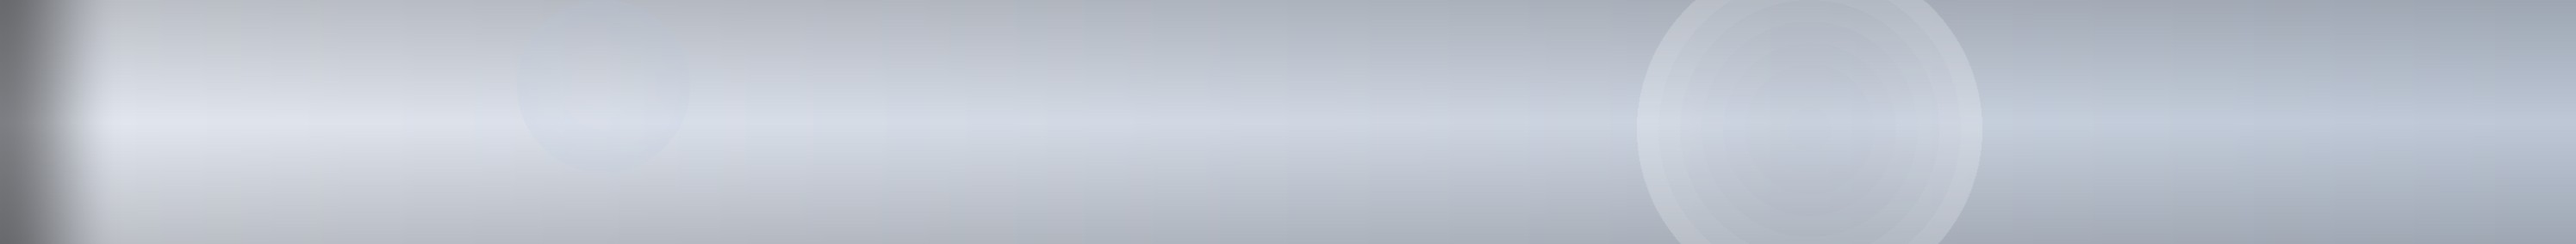
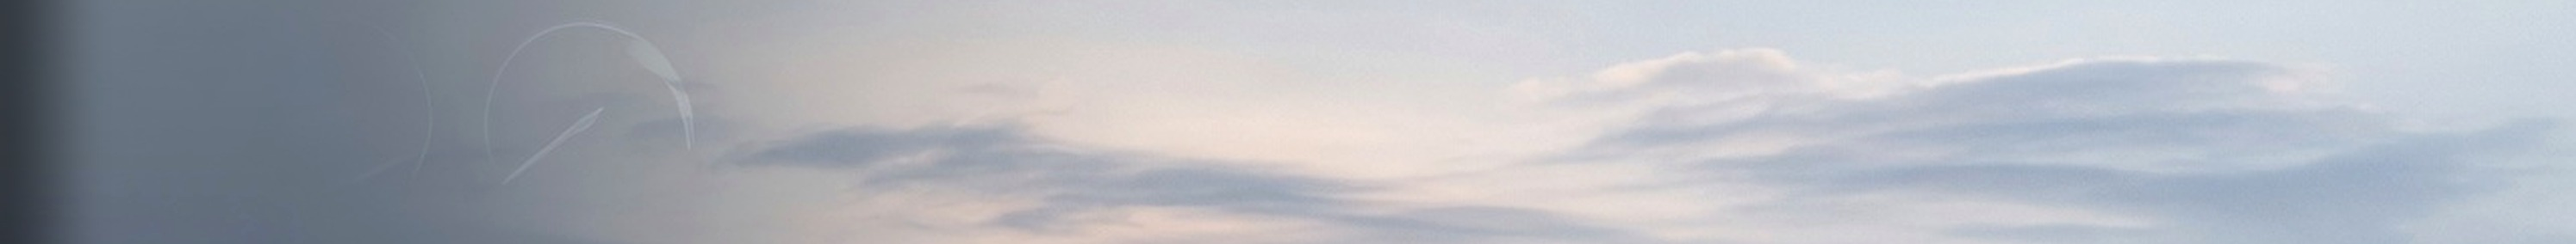
feat(assets): cinematic demo wallpapers and Lyra handoff docs (#8)
Replace procedural gradients with panoramic AI demos (3 themes × day/night).
Document Lyra Download/StarLive import paths. Version 0.1.3-demo.

diff --git a/docs/patches/lyra-import-starlive-handoff.md b/docs/patches/lyra-import-starlive-handoff.md
@@ -1,0 +1,28 @@
+# Lyra patch: StarLive handoff import
+
+Applied in Lyra branch `fix/starlive-handoff-import` on file:
+
+`android/app/src/main/java/com/lyra/cluster/settings/ClusterWallpaperSettings.kt`
+
+## Behavior
+
+`importFromDownloadCandidates` also scans:
+
+| Path | Names |
+|------|--------|
+| `Download/StarLive/` | `lyra_wallpaper.*`, `starlive_wallpaper.*`, `active_wallpaper.jpg`, … |
+| `Download/` | same names (StarLive export writes both) |
+
+## StarLive export
+
+Upgrade → 导出壁纸 writes:
+
+- `Download/StarLive/handoff.json`
+- `Download/StarLive/lyra_wallpaper.jpg`
+- `Download/lyra_wallpaper.jpg` (root, for older Lyra)
+
+## User flow
+
+1. StarLive: 升级到 Lyra → 导出壁纸  
+2. Lyra: 壁纸 → 下载导入  
+3. Optional: close StarLive idle / enable yield-to-Lyra  

diff --git a/docs/ROADMAP.md b/docs/ROADMAP.md
@@ -19,7 +19,7 @@
 | 检测 Lyra 自动让路（可关） | ✅ 0.1.1-p05 |
 | handoff 导出（Phase 4 已有） | ✅ |
 | 电池优化 / 通知使用权入口 | ✅ 关于页 |
-| 日夜双图示范主题（简约/氛围/抽象） | ✅ 0.1.2-p05 |
+| 日夜双图示范主题（影像级 demo） | ✅ 0.1.3-demo |
 | handoff 同步导出到 Download 根目录（Lyra 可扫） | ✅ 0.1.2-p05 |
 
 ## 1.1+

diff --git a/CHANGELOG.md b/CHANGELOG.md
@@ -8,7 +8,13 @@
 
 - ContentProvider 自动迁移、多图本地库
 
-## [0.1.2-p05] — 2026-08-03
+## [0.1.3-demo] — 2026-08-03
+
+### Changed
+
+- 示范壁纸改为宽幅影像级素材（简约 / 氛围 / 抽象 × 深浅）
+- 补充 `docs/patches/lyra-import-starlive-handoff.md`（Lyra 导入路径说明）
+
 
 ### Added
 
